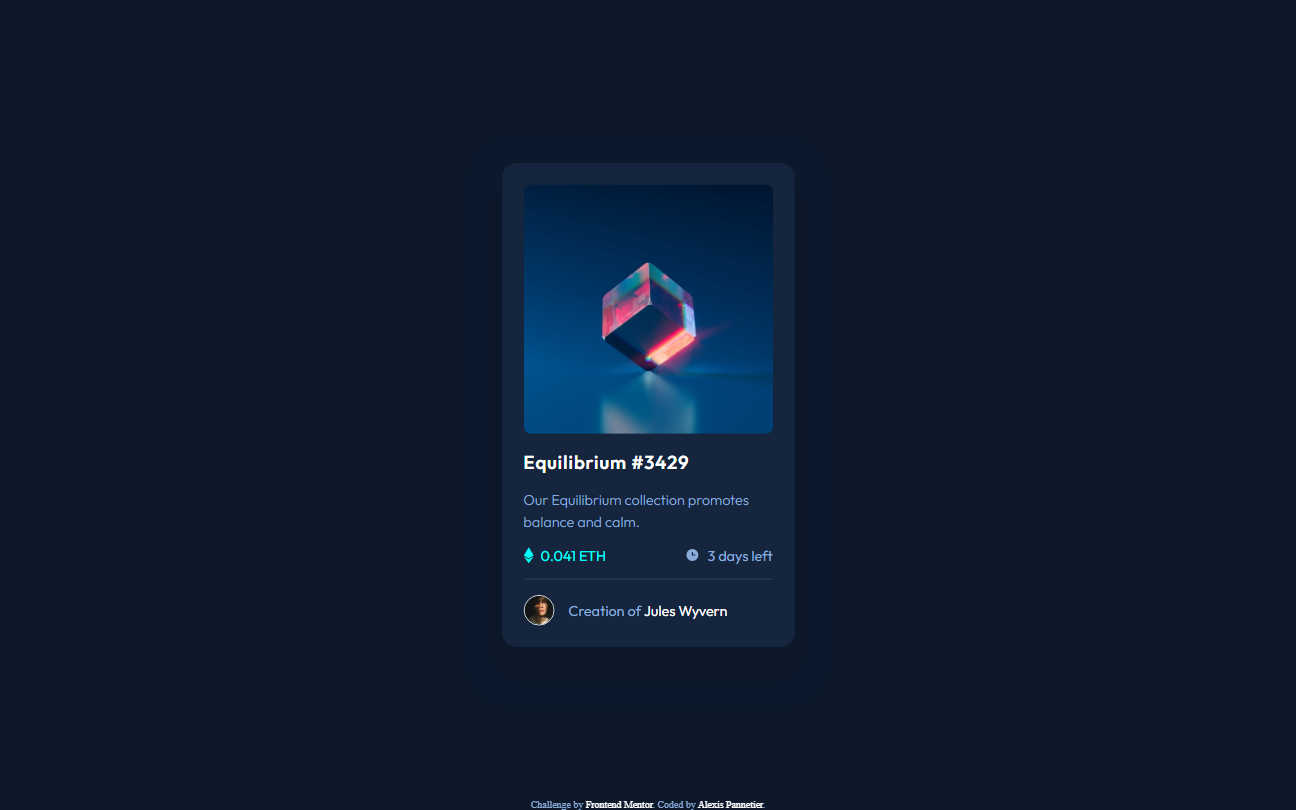
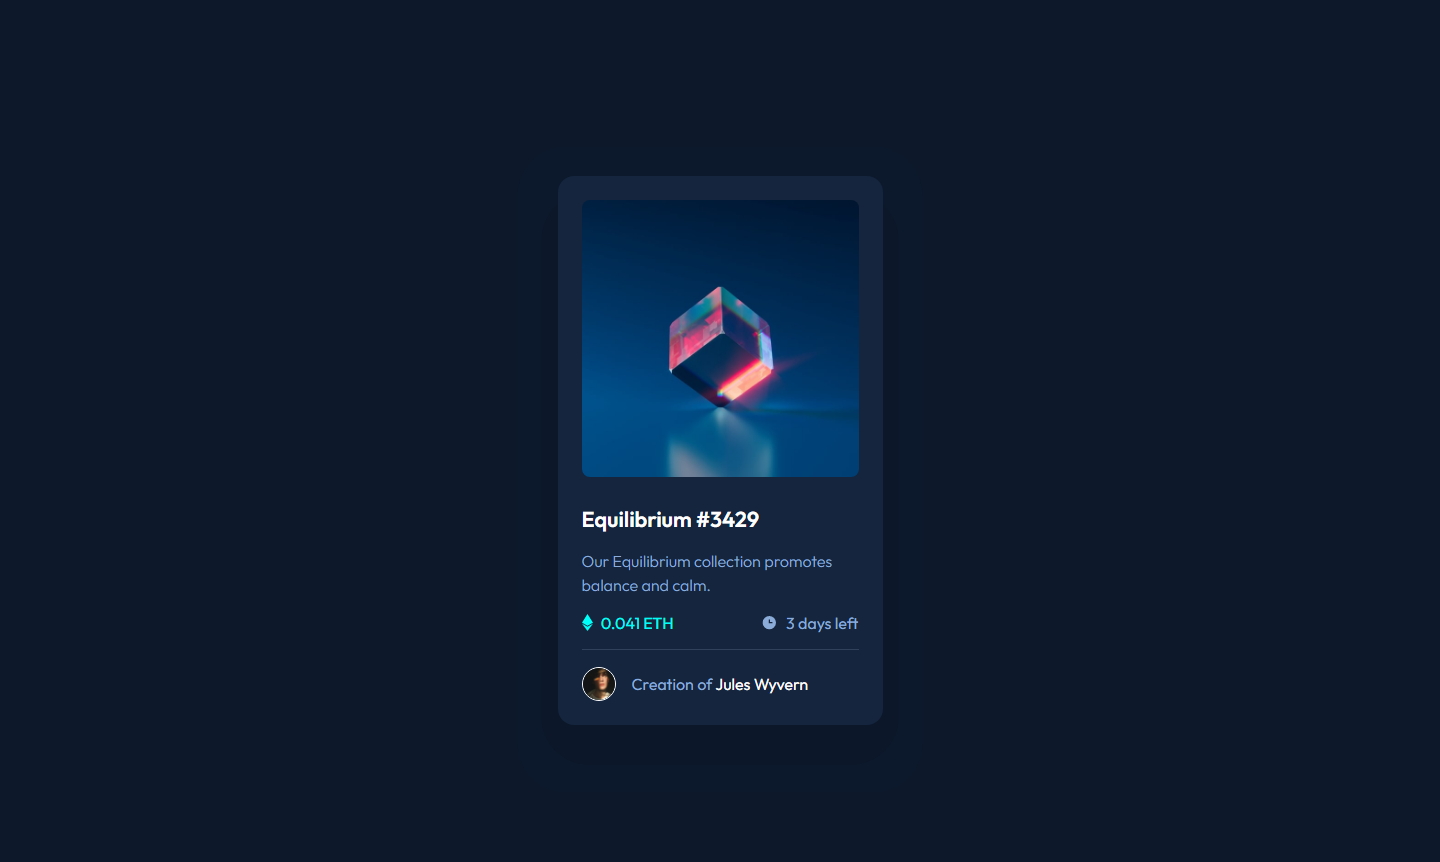
🩹 remove letter-spacing

Changed region(s): [[0.4012, 0.4938, 0.6173, 0.8333], [0.463, 0.3086, 0.5556, 0.4938], [0.4012, 0.9877, 0.5864, 1.0]]

diff --git a/style.css b/style.css
@@ -63,9 +63,9 @@ span {
 }
 
 h1 {
-  letter-spacing: 0.025rem;
-  font-size: 1.3rem;
+  font-size: 1.35rem;
   font-weight: 700;
+  margin-top: 1.75rem;
 }
 
 p {
